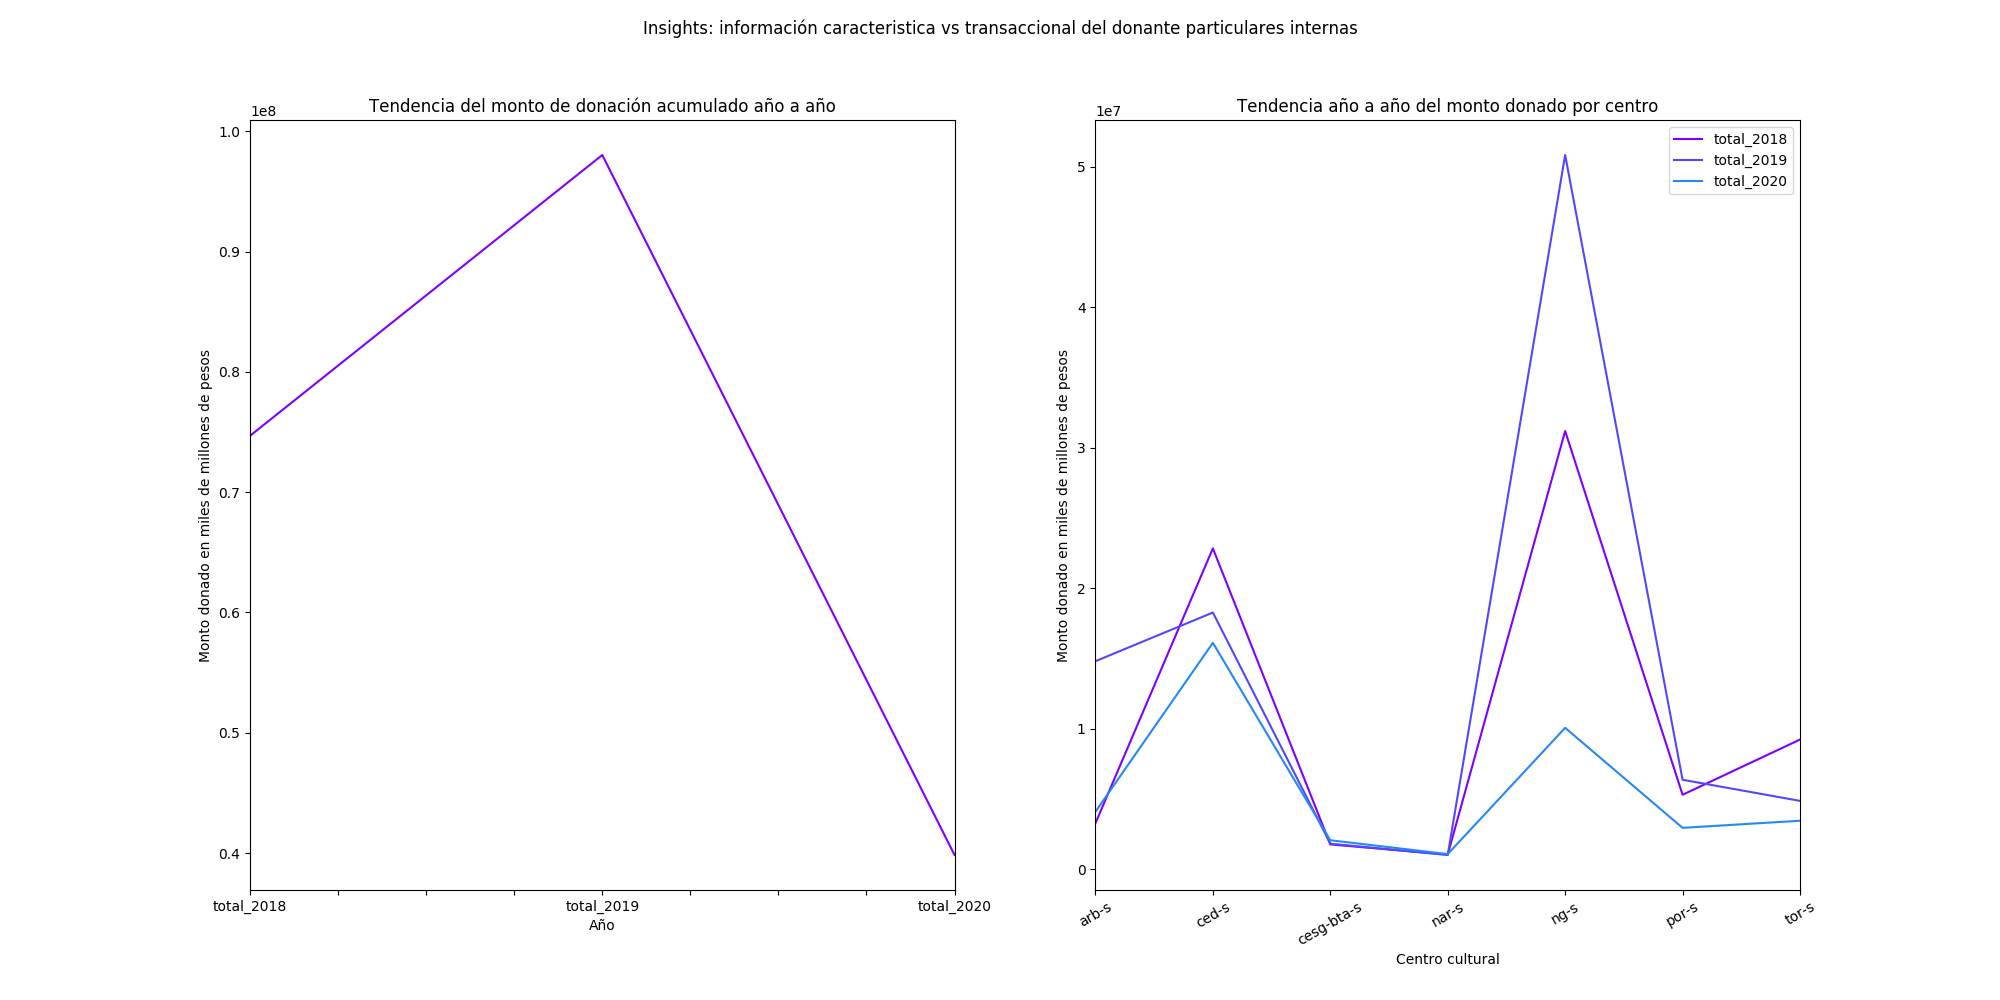
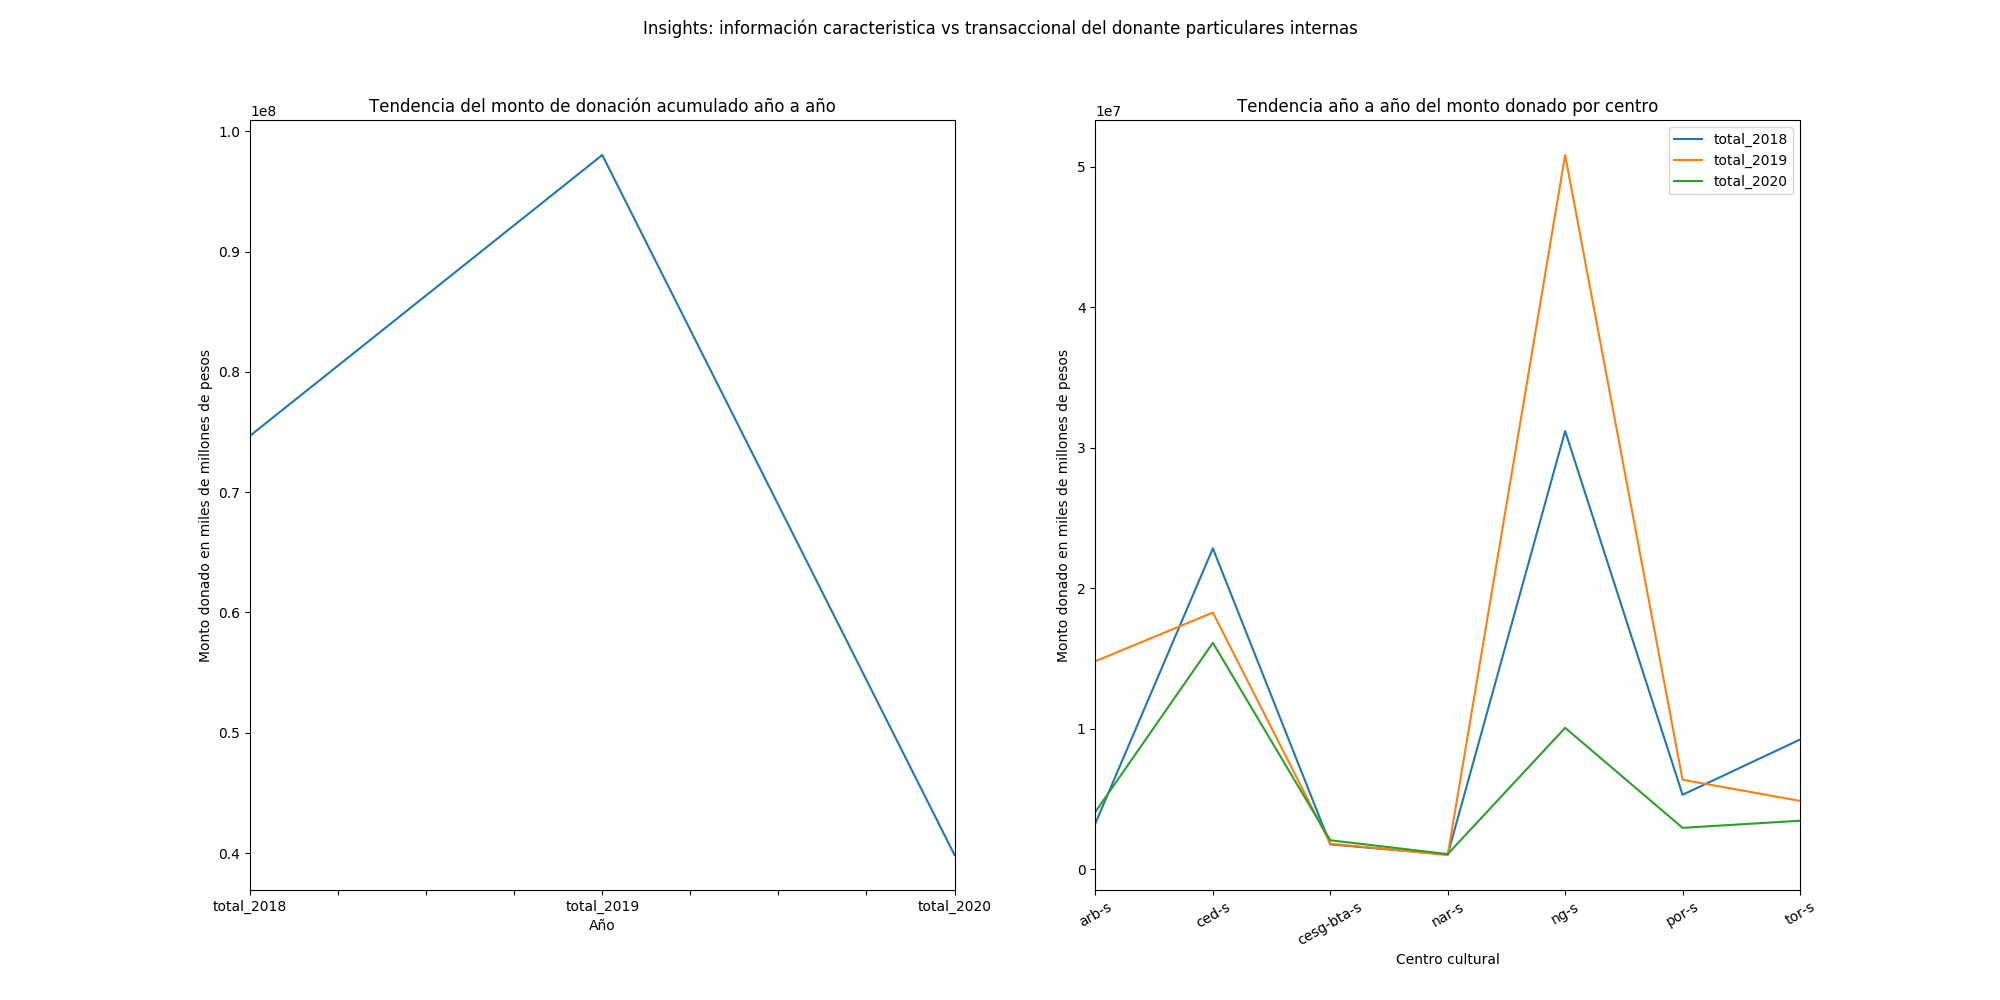
analisis descriptivo de tipo de donante cooperadoras y tipo de donante particulares internas

diff --git a/analisis_descriptivos/descriptivo_particulares_internas.py b/analisis_descriptivos/descriptivo_particulares_internas.py
@@ -29,13 +29,12 @@ print(df.columns.values)
 fig, (ax1, ax2) = plt.subplots(1, 2)
 fig.suptitle(
     'Insights: información caracteristica vs transaccional del donante particulares internas')
-df[['total_2018', 'total_2019', 'total_2020']].sum().plot(ax=ax1, figsize=(20, 10),
-                                                          colors=color)
+df[['total_2018', 'total_2019', 'total_2020']].sum().plot(ax=ax1, figsize=(20, 10))
 ax1.set_xlabel('Año')
 ax1.set_ylabel('Monto donado en miles de millones de pesos')
 ax1.set_title("Tendencia del monto de donación acumulado año a año")
 df.groupby(['centro'])[['total_2018', 'total_2019',
-                        'total_2020']].sum().plot(ax=ax2, colors=color)
+                        'total_2020']].sum().plot(ax=ax2)
 ax2.set_xlabel('Centro cultural')
 ax2.set_ylabel('Monto donado en miles de millones de pesos')
 ax2.set_title('Tendencia año a año del monto donado por centro')
@@ -99,12 +98,63 @@ for ax in fig.axes:
 fig.savefig('./images/particulares_internas/part_int_descriptivo_3.png')
 # plt.show()
 
+# Top sucursal: centor cultural fuente de cada donacion año a año
+gs = gridspec.GridSpec(2, 2)
+fig = plt.figure()
+fig.suptitle(
+    'Insights: información caracteristica vs transaccional de donante particulares internas')
+ax1 = fig.add_subplot(gs[0, 0])  # row 0, col 0
+df1 = df.groupby(['categ_suc_2018', 'cod_suc_2018'])[
+    'cod_ter'].count().reset_index()
+df1 = df1.loc[df1['categ_suc_2018'] == 1.0]
+print(df1)
+df1['nom_suc'] = ['Cedro','Inaya', 'Nogal', 'Portones', 'Torreon', 'Arboleda',
+                  'Naval', 'Torr-C.E.']
+df1.drop(columns=['categ_suc_2018', 'cod_suc_2018'], inplace=True)
+df1.set_index('nom_suc', inplace=True)
+df1.plot.bar(ax=ax1, legend=False)
+ax1.set_xlabel('')
+ax1.set_ylabel('Número de Donaciones')
+ax1.set_title("Sucursal: Centro Cultural 2018")
+ax2 = fig.add_subplot(gs[0, 1])
+df1 = df.groupby(['categ_suc_2019', 'cod_suc_2019'])[
+    'cod_ter'].count().reset_index()
+df1 = df1.loc[df1['categ_suc_2019'] == 1.0]
+print(df1)
+df1['nom_suc'] = ['Cedro', 'Nogal', 'Portones', 'Torreon', 'Arboleda',
+                  'Naval', 'Torr-C.E.']
+df1.drop(columns=['categ_suc_2019', 'cod_suc_2019'], inplace=True)
+df1.set_index('nom_suc', inplace=True)
+df1.plot.bar(ax=ax2, figsize=(20, 10), legend=False)
+ax2.set_xlabel('')
+ax2.set_ylabel('Número de Donaciones')
+ax2.set_title("Sucursal: Centro Cultural 2019")
+ax3 = fig.add_subplot(gs[1, :])
+df1 = df.groupby(['categ_suc_2020', 'cod_suc_2020'])[
+    'cod_ter'].count().reset_index()
+df1 = df1.loc[df1['categ_suc_2020'] == 3.0]
+print(df1)
+df1['nom_suc'] = ['ICSEF', 'Casanueva', 'Fondo Sacerdotes', 'APoyo Venezuela',
+                  'Mujeres Escasos Rec.']
+df1.drop(columns=['categ_suc_2020', 'cod_suc_2020'], inplace=True)
+df1.set_index('nom_suc', inplace=True)
+df1.plot.bar(ax=ax3, figsize=(20, 10), legend=False)
+ax3.set_xlabel('Labor Social')
+ax3.set_ylabel('Número de Donaciones')
+ax3.set_title("Sucursal: Labor Social 2020")
+for ax in fig.axes:
+    plt.sca(ax)
+    plt.xticks(rotation=15)
+fig.savefig('./images/particulares_internas/part_int_descriptivo_3_1.png')
+# plt.show()
+
 # centro de costos destino de cada donacion
 gs = gridspec.GridSpec(2, 2)
 fig = plt.figure()
 fig.suptitle(
     'Insights: información caracteristica vs transaccional del donante particulares internas')
 ax1 = fig.add_subplot(gs[0, 0])  # row 0, col 0
+# (df.groupby(['categ_cco_2018', 'cod_ter', 'nombre']).first())
 df.groupby(['categ_cco_2018'])['cod_ter'].count(
 ).to_frame().sort_values('cod_ter', ascending=False).plot.bar(ax=ax1, figsize=(20, 10),
                                                               colors=color)
@@ -121,6 +171,7 @@ labels = ['0. No aplica', '21. Donante Cooperadoras',
 ax1.legend(lines, labels, title="Categoría de Centro de Costos",
            ncol=1, loc='upper right', prop={'size': 8})
 ax2 = fig.add_subplot(gs[0, 1])  # row 0, col 1
+# print(df.groupby(['categ_cco_2019', 'cod_ter', 'nombre']).first())
 df.groupby(['categ_cco_2019'])['cod_ter'].count(
 ).to_frame().sort_values('cod_ter', ascending=False).plot.bar(ax=ax2, figsize=(20, 10),
                                                               colors=color)
@@ -136,6 +187,8 @@ labels = ['0. No aplica', '21. Donante Cooperadoras',
           '6. Eventos, Actividades y Productos']
 ax2.legend(lines, labels, title="Categoría de Centro de Costos",
            ncol=1, loc='upper right', prop={'size': 8})
+#df4 = df.groupby(['categ_cco_2020', 'cod_ter', 'nombre']).first().reset_index()
+#print(df4.loc[df4['categ_cco_2020'] == 21.0])
 ax3 = fig.add_subplot(gs[1, :])  # row 1, span all columns
 df.groupby(['categ_cco_2020'])['cod_ter'].count(
 ).to_frame().sort_values('cod_ter', ascending=False).plot.bar(ax=ax3, figsize=(20, 10),
@@ -155,6 +208,58 @@ for ax in fig.axes:
     plt.sca(ax)
     plt.xticks(rotation=0)
 fig.savefig('./images/particulares_internas/part_int_descriptivo_4.png')
+# plt.show()
+
+# Top centro de costo: destino de cada donacion año a año
+gs = gridspec.GridSpec(2, 2)
+fig = plt.figure()
+fig.suptitle(
+    'Insights: información caracteristica vs transaccional de donante particulares internas')
+ax1 = fig.add_subplot(gs[0, 0])  # row 0, col 0
+df1 = df.groupby(['categ_cco_2018', 'cod_cco_2018'])[
+    'cod_ter'].count().reset_index()
+df1 = df1.loc[df1['categ_cco_2018'] == 6.0]
+print(df1)
+df1['nom_cco'] = ['Pashminarte', 'Clasicos Amor',
+                  'Bonos Donacion', 'Evento Solidario',
+                  'Cantarte', 'Libros-Navidad']
+df1.drop(columns=['categ_cco_2018', 'cod_cco_2018'], inplace=True)
+df1.set_index('nom_cco', inplace=True)
+df1.plot.bar(ax=ax1, legend=False)
+ax1.set_xlabel('')
+ax1.set_ylabel('Número de Donaciones')
+ax1.set_title("Centro de costos: Eventos, Actividades y Productos 2018")
+ax2 = fig.add_subplot(gs[0, 1])
+df1 = df.groupby(['categ_cco_2019', 'cod_cco_2019'])[
+    'cod_ter'].count().reset_index()
+df1 = df1.loc[df1['categ_cco_2019'] == 6.0]
+print(df1)
+df1['nom_cco'] = ['Pashmi', 'Clasco Amor', 'Bono Donacion',
+                  'F libros-nav.', 'F CD-Nav', 'F taller emprendimiento',
+                  'F sem imagen', 'F ciclopaseo', 'F acción gracias']
+df1.drop(columns=['categ_cco_2019', 'cod_cco_2019'], inplace=True)
+df1.set_index('nom_cco', inplace=True)
+df1.plot.bar(ax=ax2, legend=False)
+ax2.set_xlabel('')
+ax2.set_ylabel('Número de Donaciones')
+ax2.set_title("Centro de costos: Eventos, Actividades y Productos 2019")
+ax3 = fig.add_subplot(gs[1, :])
+df1 = df.groupby(['categ_cco_2020', 'cod_cco_2020'])[
+    'cod_ter'].count().reset_index()
+df1 = df1.loc[df1['categ_cco_2020'] == 22.0]
+print(df1)
+df1['nom_cco'] = ['Juventus', 'Crowfunding Juventus', 'P. Particulares']
+df1.drop(columns=['categ_cco_2020', 'cod_cco_2020'], inplace=True)
+df1.set_index('nom_cco', inplace=True)
+df1.plot.bar(ax=ax3, figsize=(20, 10), legend=False)
+ax3.set_xlabel('Tipo de Donante Particular')
+ax3.set_ylabel('Número de Donaciones')
+ax3.set_title("Centro de costos: Particular 2020")
+for ax in fig.axes:
+    plt.sca(ax)
+    plt.xticks(rotation=15)
+plt.xticks(rotation=0)
+fig.savefig('./images/particulares_internas/part_int_descriptivo_4_1.png')
 # plt.show()
 
 # cuantos donaron mas de 1 vez

diff --git a/analisis_descriptivos/descriptivo_cooperadoras.py b/analisis_descriptivos/descriptivo_cooperadoras.py
@@ -31,13 +31,13 @@ print(df.columns.values)
 fig, (ax1, ax2) = plt.subplots(1, 2)
 fig.suptitle(
     'Insights: información caracteristica vs transaccional de donante cooperadoras')
-df[['total_2018', 'total_2019', 'total_2020']].sum().plot(ax=ax1, figsize=(20, 10),
-                                                          colors=color)
+df[['total_2018', 'total_2019', 'total_2020']
+   ].sum().plot(ax=ax1, figsize=(20, 10))
 ax1.set_xlabel('Año')
 ax1.set_ylabel('Monto donado en miles de millones de pesos')
 ax1.set_title("Tendencia del monto de donación acumulado año a año")
 df.groupby(['centro'])[['total_2018', 'total_2019',
-                        'total_2020']].sum().plot(ax=ax2, colors=color)
+                        'total_2020']].sum().plot(ax=ax2)
 ax2.set_xlabel('Centro cultural')
 ax2.set_ylabel('Monto donado en miles de millones de pesos')
 ax2.set_title('Tendencia año a año del monto donado por centro')
@@ -101,7 +101,55 @@ for ax in fig.axes:
 fig.savefig('./images/cooperadoras/cooperadoras_descriptivo_3.png')
 # plt.show()
 
+# Top sucursal: centor cultural fuente de cada donacion año a año
+gs = gridspec.GridSpec(2, 2)
+fig = plt.figure()
+fig.suptitle(
+    'Insights: información caracteristica vs transaccional de donante cooperadoras')
+ax1 = fig.add_subplot(gs[0, 0])  # row 0, col 0
+df1 = df.groupby(['categ_suc_2018', 'cod_suc_2018'])[
+    'cod_ter'].count().reset_index()
+df1 = df1.loc[df1['categ_suc_2018'] == 1.0]
+df1['nom_suc'] = ['Cedro', 'Nogal', 'Portones', 'Torreon', 'Arboleda',
+                  'Naval', 'Torr-C.E.', 'Neiva', 'Mirabal', 'Serrania']
+df1.drop(columns=['categ_suc_2018', 'cod_suc_2018'], inplace=True)
+df1.set_index('nom_suc', inplace=True)
+df1.plot.bar(ax=ax1, legend=False)
+# ax1.set_xlabel('Centro Cultural')
+ax1.set_ylabel('Número de DOnaciones')
+ax1.set_title("Sucursal: Centro Cultural 2018")
+ax2 = fig.add_subplot(gs[0, 1])
+df1 = df.groupby(['categ_suc_2019', 'cod_suc_2019'])[
+    'cod_ter'].count().reset_index()
+df1 = df1.loc[df1['categ_suc_2019'] == 1.0]
+df1['nom_suc'] = ['Cedro', 'Nogal', 'Portones', 'Torreon', 'Arboleda',
+                  'Naval', 'Neiva', 'Serrania']
+df1.drop(columns=['categ_suc_2019', 'cod_suc_2019'], inplace=True)
+df1.set_index('nom_suc', inplace=True)
+df1.plot.bar(ax=ax2, figsize=(20, 10), legend=False)
+# ax2.set_xlabel('Centro Cultural')
+ax2.set_ylabel('Número de Donaciones')
+ax2.set_title("Sucursal: Centro Cultural 2019")
+ax3 = fig.add_subplot(gs[1, :])
+df1 = df.groupby(['categ_suc_2020', 'cod_suc_2020'])[
+    'cod_ter'].count().reset_index()
+df1 = df1.loc[df1['categ_suc_2020'] == 1.0]
+df1['nom_suc'] = ['Cedro', 'Nogal', 'Portones', 'Torreon', 'Arboleda',
+                  'Naval', 'Neiva', 'Serrania']
+df1.drop(columns=['categ_suc_2020', 'cod_suc_2020'], inplace=True)
+df1.set_index('nom_suc', inplace=True)
+df1.plot.bar(ax=ax3, figsize=(20, 10), legend=False)
+ax3.set_xlabel('Centro Cultural')
+ax3.set_ylabel('Número de Donaciones')
+ax3.set_title("Sucursal: Centro Cultural 2020")
+for ax in fig.axes:
+    plt.sca(ax)
+    plt.xticks(rotation=17)
+fig.savefig('./images/cooperadoras/cooperadoras_descriptivo_3_1.png')
+# plt.show()
+
 # centro de costos destino de cada donacion
+#print(df.groupby(['categ_cco_2018', 'cod_ter', 'nombre']).first())
 gs = gridspec.GridSpec(2, 2)
 fig = plt.figure()
 fig.suptitle(
@@ -122,6 +170,7 @@ labels = ['0. No aplica', '21. Donante Cooperadoras',
           '6. Eventos, Actividades y Productos']
 ax1.legend(lines, labels, title="Categoría de Centro de Costos",
            ncol=1, loc='upper right', prop={'size': 8})
+#print(df.groupby(['categ_cco_2019', 'cod_ter', 'nombre']).first())
 ax2 = fig.add_subplot(gs[0, 1])  # row 0, col 1
 df.groupby(['categ_cco_2019'])['cod_ter'].count(
 ).to_frame().sort_values('cod_ter', ascending=False).plot.bar(ax=ax2, figsize=(20, 10),
@@ -138,6 +187,7 @@ labels = ['0. No aplica', '21. Donante Cooperadoras',
           '6. Eventos, Actividades y Productos']
 ax2.legend(lines, labels, title="Categoría de Centro de Costos",
            ncol=1, loc='upper right', prop={'size': 8})
+#print(df.groupby(['categ_cco_2020', 'cod_ter', 'nombre']).first())
 ax3 = fig.add_subplot(gs[1, :])  # row 1, span all columns
 df.groupby(['categ_cco_2020'])['cod_ter'].count(
 ).to_frame().sort_values('cod_ter', ascending=False).plot.bar(ax=ax3, figsize=(20, 10),
@@ -158,6 +208,52 @@ for ax in fig.axes:
     plt.xticks(rotation=0)
 fig.savefig('./images/cooperadoras/cooperadoras_descriptivo_4.png')
 # plt.show()
+
+# Top centro de costo: destino de cada donacion año a año
+gs = gridspec.GridSpec(2, 2)
+fig = plt.figure()
+fig.suptitle(
+    'Insights: información caracteristica vs transaccional de donante cooperadoras')
+ax1 = fig.add_subplot(gs[0, 0])  # row 0, col 0
+df1 = df.groupby(['categ_cco_2018', 'cod_cco_2018'])[
+    'cod_ter'].count().reset_index()
+df1 = df1.loc[df1['categ_cco_2018'] == 21.0]
+df1['nom_cco'] = ['Cooperadora']
+df1.drop(columns=['categ_cco_2018', 'cod_cco_2018'], inplace=True)
+df1.set_index('nom_cco', inplace=True)
+df1.plot.bar(ax=ax1, legend=False)
+ax1.set_xlabel('')
+ax1.set_ylabel('Número de Donaciones')
+ax1.set_title("Centro de costos: Cooperadora 2018")
+ax2 = fig.add_subplot(gs[0, 1])
+df1 = df.groupby(['categ_cco_2019', 'cod_cco_2019'])[
+    'cod_ter'].count().reset_index()
+df1 = df1.loc[df1['categ_cco_2019'] == 21.0]
+print(df1)
+df1['nom_cco'] = ['Coop Casa Nueva', 'F. Cooperadoras', 'P. Cooperadoras']
+df1.drop(columns=['categ_cco_2019', 'cod_cco_2019'], inplace=True)
+df1.set_index('nom_cco', inplace=True)
+df1.plot.bar(ax=ax2, legend=False)
+ax2.set_xlabel('')
+ax2.set_ylabel('Número de Donaciones')
+ax2.set_title("Centro de costos: Cooperadora 2019")
+ax3 = fig.add_subplot(gs[1, :])
+df1 = df.groupby(['categ_cco_2020', 'cod_cco_2020'])[
+    'cod_ter'].count().reset_index()
+df1 = df1.loc[df1['categ_cco_2020'] == 21.0]
+print(df1)
+df1['nom_cco'] = ['F. Cooperadoras', 'P. Cooperadoras']
+df1.drop(columns=['categ_cco_2020', 'cod_cco_2020'], inplace=True)
+df1.set_index('nom_cco', inplace=True)
+df1.plot.bar(ax=ax3, figsize=(20, 10), legend=False)
+ax3.set_xlabel('Tipo de Donante Cooperadora')
+ax3.set_ylabel('Número de Donaciones')
+ax3.set_title("Centro de costos: Cooperadora 2020")
+for ax in fig.axes:
+    plt.sca(ax)
+    plt.xticks(rotation=0)
+fig.savefig('./images/cooperadoras/cooperadoras_descriptivo_4_1.png')
+plt.show()
 
 # cuantos donaron mas de 1 vez
 # cuantas cooperadoras donaron más de a una causa
@@ -251,7 +347,6 @@ for ax in fig.axes:
     plt.xticks(rotation=210)
 fig.savefig('./images/cooperadoras/cooperadoras_descriptivo_6.png')
 # plt.show()
-
 
 
 ##########################################################
